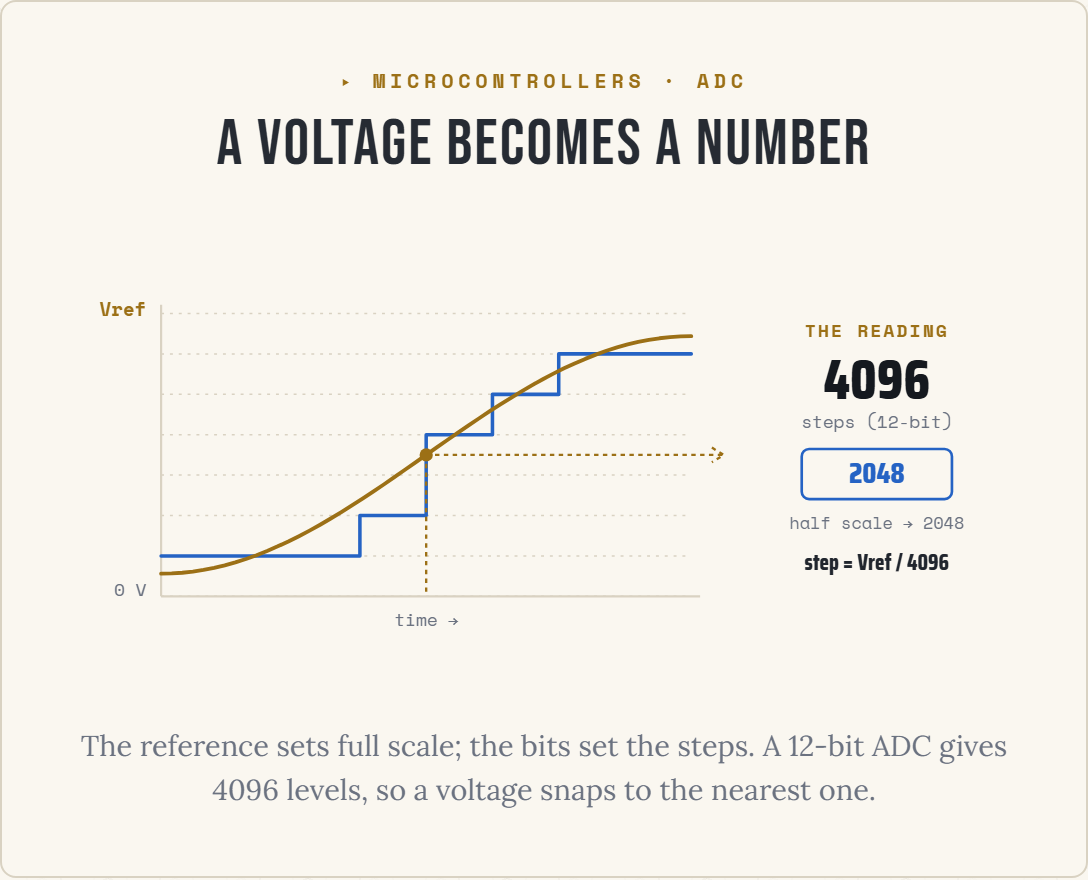
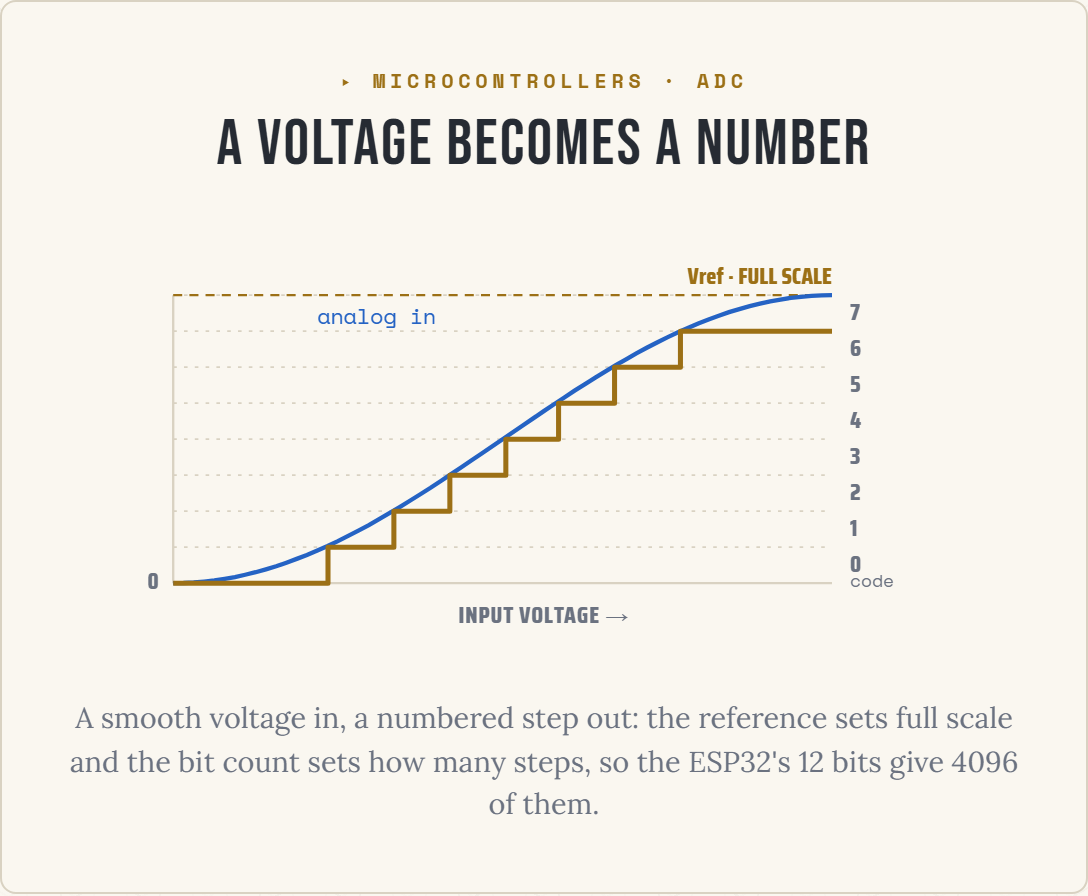
redo(diagrams): mcu-adc-quantize — the quantization chart (3/11)
Rebuild to the house bar: the real ADC quantization figure. A smooth analog input
curve (blue) with the gold quantized staircase climbing one code at a time under
it, level grid, codes up the right, Vref marking full scale. Eight steps shown;
the 4096 real steps noted in the caption. Saira for the codes, token color, both
themes, landscape 1.29.

diff --git a/src/components/guide/diagrams/McuAdcQuantize.tsx b/src/components/guide/diagrams/McuAdcQuantize.tsx
@@ -1,123 +1,106 @@
-// ADC quantization: a voltage becomes a number (v2). Microcontrollers cluster.
+// ADC quantization: a voltage becomes a number (diagram-standards v2).
+// MCU cluster, diagram 3. Owner-picked Q1.
 //
-// Teaching point: an ADC samples a smooth analog voltage and snaps it to the
-// nearest of a fixed set of levels, giving a whole number. The reference sets the
-// top of the range (full scale); the bit count sets how many levels, so the step
-// size is Vref divided by 2^N.
+// Teaching point (lesson 2): an ADC splits its input range into steps and reports
+// which step the voltage lands on. A smooth analog input (blue) rises across the
+// range; the gold staircase is the quantized output, climbing one code at a time
+// under the curve. The reference marks the top step (full scale); the bit count
+// sets how many steps, so the ESP32's 12 bits give 4096. Eight shown for clarity.
 //
-// Landscape desktop/print: a plot of the smooth signal (gold) with the quantized
-// staircase (blue) it becomes, plus the reading panel on the right. Levels are
-// drawn simplified (8) with the real 12-bit count called out. REFLOWS on a phone
-// to a stat + summary. Token-only color.
+// Chart paths are computed once at module scope (deterministic). Color via CSS
+// classes so both themes flip; Saira for the code numbers. Caption from the frame.
 import { DiagramFrame } from "./DiagramFrame";
 
-const X0 = 70, X1 = 430, YT = 54, YB = 246;
-const LEVELS = 8; // illustrative; the real ADC is 12-bit (4096)
-const V = (t: number) => 0.5 - 0.42 * Math.cos(Math.PI * t); // smooth rise, fraction of full scale
-const X = (t: number) => X0 + (X1 - X0) * t;
-const Y = (f: number) => YB - (YB - YT) * f;
-const clamp = (n: number, a: number, b: number) => Math.max(a, Math.min(b, n));
+const N = 8;
+const PX0 = 64, PX1 = 430, PY0 = 194, PYT = 34, H = PY0 - PYT;
+const vy = (v: number) => PY0 - v * H;
+const curveY = (t: number) => 0.5 - 0.5 * Math.cos(Math.PI * t);
 
-function analogPath(): string {
-  const pts: string[] = [];
-  for (let t = 0; t <= 1.0001; t += 0.02) pts.push(`${X(t).toFixed(1)},${Y(V(t)).toFixed(1)}`);
-  return "M" + pts.join(" L");
-}
-function stairPath(): string {
-  let d = "";
-  for (let i = 0; i < LEVELS; i++) {
-    const code = clamp(Math.round(V(i / LEVELS) * (LEVELS - 1)), 0, LEVELS - 1);
-    const y = Y(code / (LEVELS - 1));
-    const xa = X(i / LEVELS), xb = X((i + 1) / LEVELS);
-    d += i === 0 ? `M${xa.toFixed(1)},${y.toFixed(1)}` : `L${xa.toFixed(1)},${y.toFixed(1)}`;
-    d += ` L${xb.toFixed(1)},${y.toFixed(1)}`;
+const CURVE = (() => {
+  let d = "M";
+  for (let i = 0; i <= 64; i++) {
+    const t = i / 64, x = PX0 + t * (PX1 - PX0), y = vy(curveY(t));
+    d += `${i ? "L" : ""}${x.toFixed(1)} ${y.toFixed(1)} `;
   }
   return d;
-}
+})();
+
+const STAIR = (() => {
+  const pts: [number, number][] = [];
+  for (let i = 0; i <= 200; i++) {
+    const t = i / 200, x = PX0 + t * (PX1 - PX0);
+    const lvl = Math.max(0, Math.min(N - 1, Math.floor(curveY(t) * N)));
+    pts.push([x, lvl]);
+  }
+  let d = `M${pts[0][0].toFixed(1)} ${vy(pts[0][1] / N).toFixed(1)}`;
+  let cur = pts[0][1];
+  for (let i = 1; i < pts.length; i++) {
+    const [x, lvl] = pts[i];
+    if (lvl !== cur) { d += ` L${x.toFixed(1)} ${vy(cur / N).toFixed(1)} L${x.toFixed(1)} ${vy(lvl / N).toFixed(1)}`; cur = lvl; }
+  }
+  d += ` L${pts[pts.length - 1][0].toFixed(1)} ${vy(cur / N).toFixed(1)}`;
+  return d;
+})();
 
 export function McuAdcQuantize({ caption }: { caption?: string }) {
-  const gridY = Array.from({ length: LEVELS }, (_, k) => Y(k / (LEVELS - 1)));
   return (
     <DiagramFrame
       eyebrow="MICROCONTROLLERS · ADC"
       tone="gold"
       title="A voltage becomes a number"
-      ariaLabel="An analog-to-digital converter turns a smooth voltage into a whole number. A plot shows a smooth rising analog signal in gold and the quantized staircase it becomes in blue, snapped to the nearest level. The reference voltage marks the top of the range, full scale, and zero volts is the bottom. The number of levels is set by the bit count: the ESP32 ADC is 12-bit, giving 4096 steps, so the step size is the reference voltage divided by 4096. Half of full scale reads as the code 2048."
+      ariaLabel="An analog-to-digital converter turning a smooth voltage into a number. A smooth analog input curve rises across the range; the converter reports the discrete step the voltage lands on, drawn as a gold staircase that climbs one code at a time under the curve. The reference voltage marks the top step, full scale, and the codes count up the right side. The ESP32's 12-bit converter has 4096 such steps; eight are shown for clarity."
       caption={caption}
-      defaultCaption="The reference sets full scale; the bits set the steps. A 12-bit ADC gives 4096 levels, so a voltage snaps to the nearest one."
+      defaultCaption="A smooth voltage in, a numbered step out: the reference sets full scale and the bit count sets how many steps, so the ESP32's 12 bits give 4096 of them."
     >
       <style>{CSS}</style>
-
-      <div className="adq">
-        {/* desktop / print */}
-        <svg className="adq-scene" viewBox="0 0 660 300" aria-hidden="true">
-          {/* level gridlines */}
-          {gridY.map((y, i) => (
-            <line key={i} className="adq-grid" x1={X0} y1={y} x2={X1} y2={y} />
+      <div className="adc">
+        <svg className="adc-svg" viewBox="0 0 540 230" aria-hidden="true">
+          {/* level grid */}
+          {Array.from({ length: N + 1 }, (_, k) => (
+            <line key={k} x1={PX0} y1={vy(k / N)} x2={PX1} y2={vy(k / N)} className="adc-grid" />
           ))}
           {/* axes */}
-          <line className="adq-axis" x1={X0} y1={YT - 6} x2={X0} y2={YB} />
-          <line className="adq-axis" x1={X0} y1={YB} x2={X1 + 6} y2={YB} />
-          <text className="adq-ref" x={X0 - 10} y={YT + 2} textAnchor="end">Vref</text>
-          <text className="adq-ax" x={X0 - 10} y={YB} textAnchor="end">0 V</text>
-          <text className="adq-ax" x={(X0 + X1) / 2} y={YB + 20} textAnchor="middle">time →</text>
-
-          {/* quantized staircase (what you get) */}
-          <path className="adq-stair" fill="none" d={stairPath()} />
-          {/* smooth analog (what came in) */}
-          <path className="adq-analog" fill="none" d={analogPath()} />
-
-          {/* sample highlight at half scale → code 2048 */}
-          <line className="adq-samp" x1={X(0.5)} y1={Y(V(0.5))} x2={X(0.5)} y2={YB} />
-          <circle className="adq-dot" cx={X(0.5)} cy={Y(V(0.5))} r={4.5} />
-          <line className="adq-samp" x1={X(0.5)} y1={Y(V(0.5))} x2={452} y2={Y(V(0.5))} />
-          <path className="adq-samp" fill="none" d={`M444,${Y(V(0.5)) - 5} L452,${Y(V(0.5))} L444,${Y(V(0.5)) + 5}`} />
-
-          {/* reading panel */}
-          <text className="adq-hd" x={556} y={70} textAnchor="middle">THE READING</text>
-          <text className="adq-big" x={556} y={112} textAnchor="middle">4096</text>
-          <text className="adq-unit" x={556} y={132} textAnchor="middle">steps (12-bit)</text>
-          <rect className="adq-code" x={505} y={146} width={102} height={34} rx={5} />
-          <text className="adq-codev" x={556} y={169} textAnchor="middle">2048</text>
-          <text className="adq-note" x={556} y={200} textAnchor="middle">half scale → 2048</text>
-          <text className="adq-step" x={556} y={228} textAnchor="middle">step = Vref / 4096</text>
+          <line x1={PX0} y1={PYT} x2={PX0} y2={PY0} className="adc-axis" />
+          <line x1={PX0} y1={PY0} x2={PX1} y2={PY0} className="adc-axis" />
+          {/* Vref full-scale */}
+          <line x1={PX0} y1={PYT} x2={PX1} y2={PYT} className="adc-vref" />
+          <text x={PX1} y={PYT - 6} textAnchor="end" className="adc-vref-lbl">Vref · FULL SCALE</text>
+          {/* signals */}
+          <path d={CURVE} className="adc-curve" />
+          <path d={STAIR} className="adc-stair" />
+          <text x={PX0 + 80} y={PYT + 16} className="adc-analog">analog in</text>
+          {/* codes */}
+          {Array.from({ length: N }, (_, k) => (
+            <text key={k} x={PX1 + 10} y={vy(k / N + 0.5 / N) + 4} className="adc-code">{k}</text>
+          ))}
+          <text x={PX1 + 10} y={PY0 + 2} className="adc-lbl-sm">code</text>
+          <text x={PX0 - 8} y={PY0 + 3} textAnchor="end" className="adc-zero">0</text>
+          <text x="270" y="216" textAnchor="middle" className="adc-axlbl">INPUT VOLTAGE →</text>
         </svg>
-
-        {/* phone reflow */}
-        <div className="adq-phone" aria-hidden="true">
-          <div className="adq-stat"><span className="adq-snum">4096</span><span className="adq-slab">steps · 12-bit</span></div>
-          <p className="adq-sum">A smooth voltage snaps to the nearest step and reads as a whole number. The reference sets full scale; the step size is <b>Vref / 4096</b>. Half of full scale reads <b>2048</b>.</p>
-        </div>
       </div>
     </DiagramFrame>
   );
 }
 
 const CSS = `
-.adq{display:block;}
-.adq-scene{display:block;width:100%;height:auto;overflow:visible;}
-.adq-grid{stroke:var(--color-panel-border,#3a3f50);stroke-width:1;stroke-dasharray:2 4;}
-.adq-axis{stroke:var(--color-panel-border,#3a3f50);stroke-width:1.5;}
-.adq-analog{stroke:var(--color-command-gold,#c8963e);stroke-width:2.6;stroke-linecap:round;stroke-linejoin:round;}
-.adq-stair{stroke:var(--color-signal-blue,#4a8fff);stroke-width:2.4;stroke-linecap:round;stroke-linejoin:round;}
-.adq-samp{fill:none;stroke:var(--color-command-gold,#c8963e);stroke-width:1.6;stroke-dasharray:3 3;}
-.adq-dot{fill:var(--color-command-gold,#c8963e);}
-.adq-ref{font-family:var(--font-mono,"Space Mono",monospace);font-weight:700;font-size:13px;fill:var(--color-command-gold,#c8963e);}
-.adq-ax{font-family:var(--font-mono,"Space Mono",monospace);font-weight:400;font-size:12px;fill:var(--color-muted,#aaa);}
-.adq-hd{font-family:var(--font-mono,"Space Mono",monospace);font-weight:700;font-size:12px;letter-spacing:.13em;fill:var(--color-command-gold,#c8963e);}
-.adq-big{font-family:var(--font-numeral,"Saira Condensed",sans-serif);font-weight:800;font-size:38px;fill:var(--color-title,#f1ece0);}
-.adq-unit{font-family:var(--font-mono,"Space Mono",monospace);font-weight:400;font-size:12px;fill:var(--color-muted,#aaa);}
-.adq-code{fill:none;stroke:var(--color-signal-blue,#4a8fff);stroke-width:1.8;}
-.adq-codev{font-family:var(--font-numeral,"Saira Condensed",sans-serif);font-weight:800;font-size:20px;fill:var(--color-signal-blue,#4a8fff);}
-.adq-note{font-family:var(--font-mono,"Space Mono",monospace);font-weight:400;font-size:11.5px;fill:var(--color-muted,#aaa);}
-.adq-step{font-family:var(--font-numeral,"Saira Condensed",sans-serif);font-weight:800;font-size:15px;fill:var(--color-text,#e8e8e8);}
+.adc{max-width:36rem;margin-inline:auto;}
+.adc-svg{display:block;width:100%;height:auto;overflow:visible;}
+.adc-grid{stroke:var(--color-panel-border,#3a3f50);stroke-width:1;stroke-dasharray:2 4;}
+.adc-axis{stroke:var(--color-panel-border,#3a3f50);stroke-width:1.3;}
+.adc-vref{stroke:var(--color-command-gold,#c8963e);stroke-width:1.3;stroke-dasharray:5 4;}
+.adc-vref-lbl{font-family:var(--font-numeral,"Saira Condensed",sans-serif);font-weight:700;font-size:13px;fill:var(--color-command-gold,#c8963e);}
+.adc-curve{fill:none;stroke:var(--color-signal-blue,#4a8fff);stroke-width:2.4;}
+.adc-stair{fill:none;stroke:var(--color-command-gold,#c8963e);stroke-width:2.8;stroke-linejoin:round;}
+.adc-analog{font-family:var(--font-mono,"Space Mono",monospace);font-size:12px;fill:var(--color-signal-blue,#4a8fff);}
+.adc-code{font-family:var(--font-numeral,"Saira Condensed",sans-serif);font-weight:700;font-size:13px;fill:var(--color-muted,#aaaaaa);}
+.adc-lbl-sm{font-family:var(--font-mono,"Space Mono",monospace);font-size:10px;fill:var(--color-muted,#aaaaaa);}
+.adc-zero{font-family:var(--font-numeral,"Saira Condensed",sans-serif);font-weight:700;font-size:13px;fill:var(--color-muted,#aaaaaa);}
+.adc-axlbl{font-family:var(--font-numeral,"Saira Condensed",sans-serif);font-weight:700;font-size:13px;letter-spacing:.04em;fill:var(--color-muted,#aaaaaa);}
 
-/* phone reflow */
-.adq-phone{display:none;}
-@media (max-width:520px){ .adq-scene{display:none;} .adq-phone{display:block;text-align:left;} }
-.adq-stat{display:flex;align-items:baseline;gap:.5rem;margin-bottom:.5rem;}
-.adq-snum{font-family:var(--font-numeral,"Saira Condensed",sans-serif);font-weight:800;font-size:2.4rem;line-height:1;color:var(--color-command-gold,#c8963e);}
-.adq-slab{font-family:var(--font-mono,"Space Mono",monospace);font-size:.8rem;letter-spacing:.08em;text-transform:uppercase;color:var(--color-muted,#aaa);}
-.adq-sum{margin:0;font-family:var(--font-serif,"Lora",serif);font-size:.94rem;line-height:1.5;color:var(--color-text,#e8e8e8);}
-.adq-sum b{font-family:var(--font-numeral,"Saira Condensed",sans-serif);font-weight:800;color:var(--color-title,#f1ece0);}
+/* Tier-B reveal off the frame's armed/in contract (final state under reduced-motion). */
+.dgfrm.armed .adc-svg{opacity:0;transform:translateY(6px);}
+.dgfrm.armed.in .adc-svg{opacity:1;transform:none;transition:opacity .6s ease,transform .6s cubic-bezier(.2,.7,.2,1);}
+@media (prefers-reduced-motion:reduce){
+  .dgfrm .adc-svg{opacity:1!important;transform:none!important;transition:none!important;}
+}
 `;
